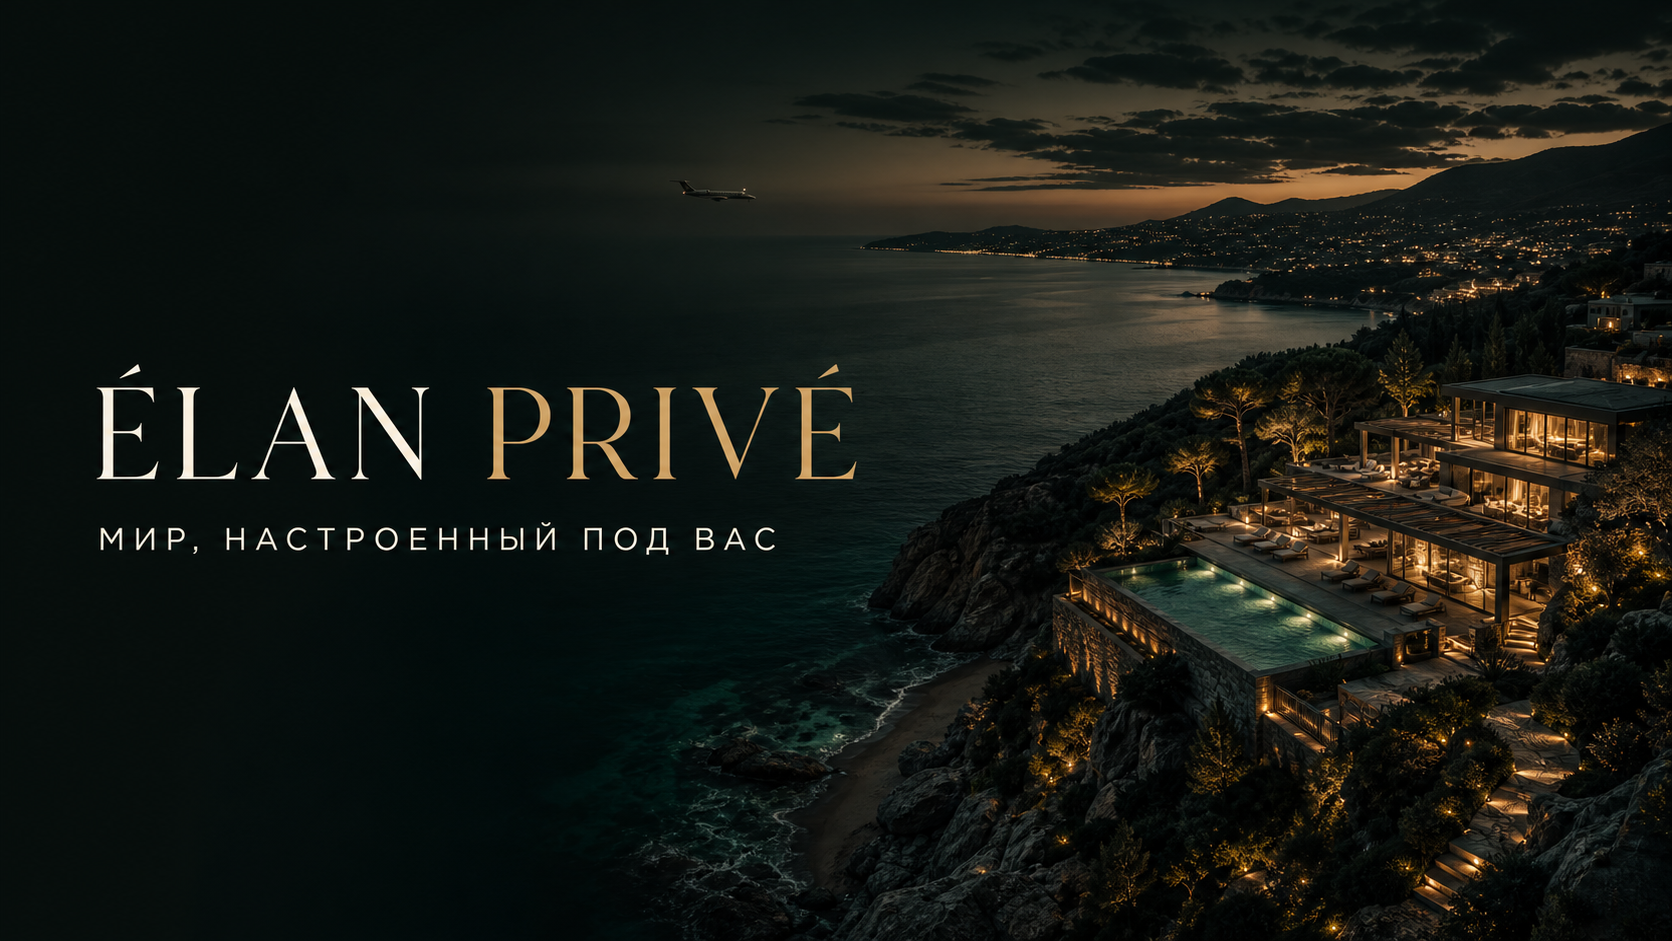
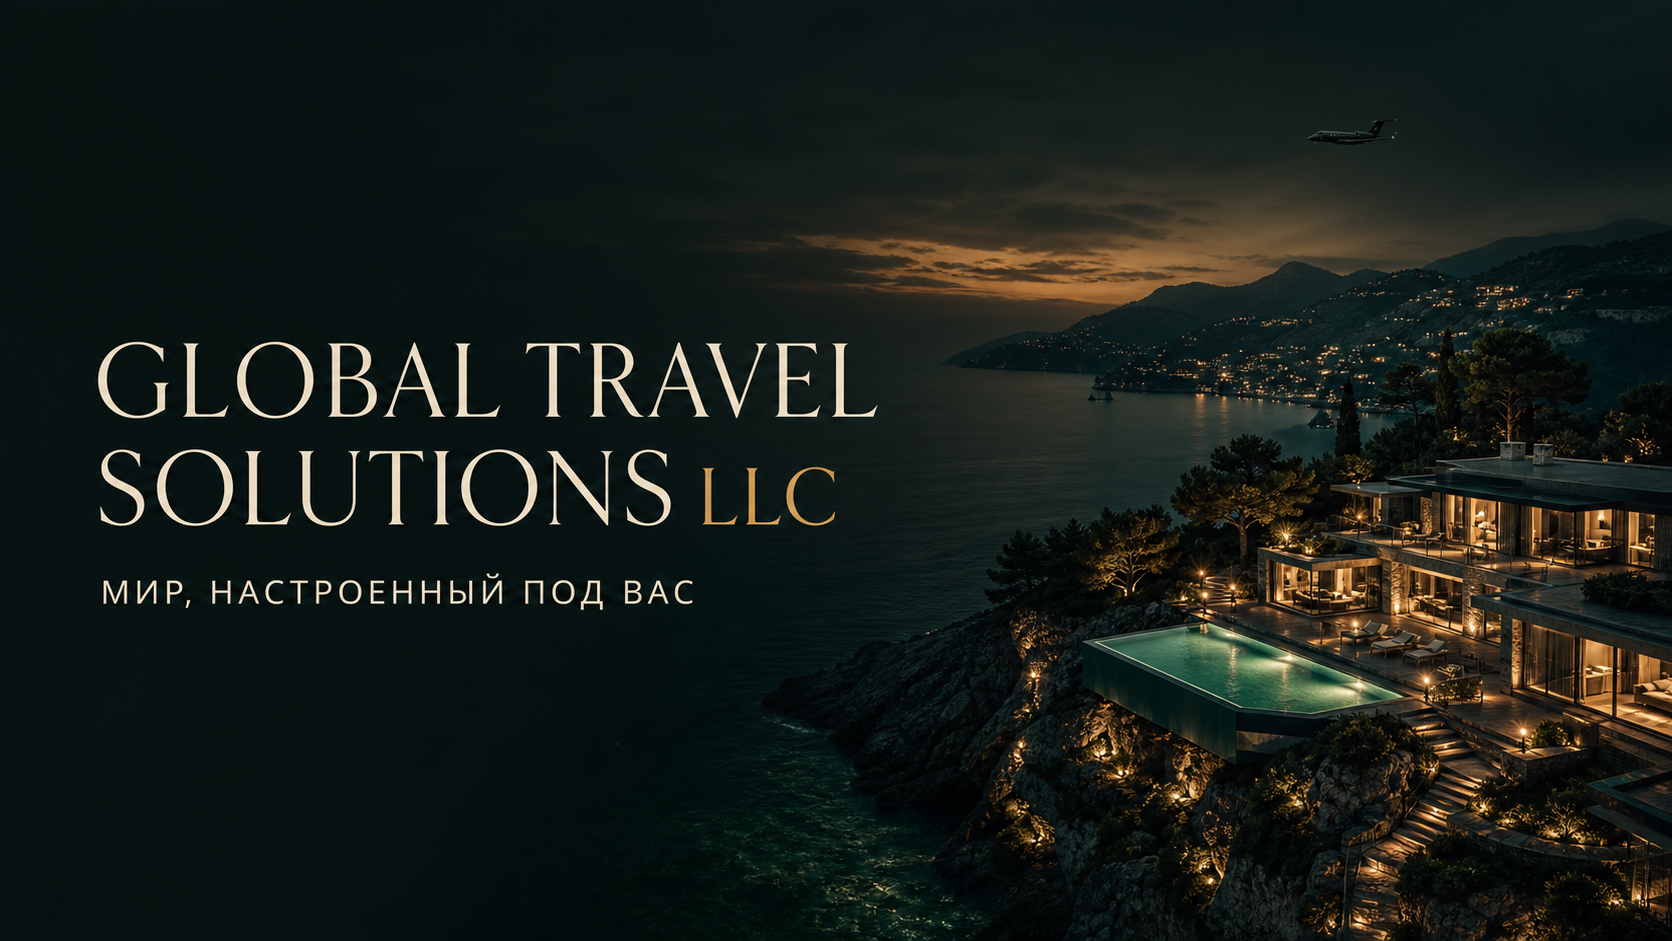
Rename brand and fix responsive service layout

Changed region(s): [[0.3732, 0.0308, 1.0, 1.0], [0.0622, 0.339, 0.5287, 0.5855], [0.0622, 0.6164, 0.4354, 0.6472]]

diff --git a/app/page.tsx b/app/page.tsx
@@ -60,10 +60,14 @@ export default function Home() {
         <div className="hero-noise" aria-hidden="true" />
 
         <header className="nav shell">
-          <a className="brand" href="#top" aria-label="Élan Privé — на главную">
-            <span className="brand-mark">E</span>
+          <a
+            className="brand"
+            href="#top"
+            aria-label="Global Travel Solutions LLC — на главную"
+          >
+            <span className="brand-mark">G</span>
             <span>
-              ÉLAN <i>PRIVÉ</i>
+              GLOBAL TRAVEL SOLUTIONS <i>LLC</i>
             </span>
           </a>
 
@@ -127,9 +131,10 @@ export default function Home() {
             </p>
             <div className="intro-details">
               <p>
-                Élan Privé объединяет локальную экспертизу и международную сеть
-                партнёров. Мы берём на себя весь путь: понимаем задачу,
-                предлагаем точные варианты и остаёмся рядом до последней детали.
+                Global Travel Solutions LLC объединяет локальную экспертизу и
+                международную сеть партнёров. Мы берём на себя весь путь:
+                понимаем задачу, предлагаем точные варианты и остаёмся рядом до
+                последней детали.
               </p>
               <div className="fact">
                 <strong>24 / 7</strong>
@@ -270,8 +275,11 @@ export default function Home() {
           </h2>
 
           <div className="contact-actions">
-            <a className="email-link" href="mailto:hello@elan-prive.com">
-              hello@elan-prive.com <span>↗</span>
+            <a
+              className="email-link"
+              href="mailto:hello@globaltravelsolutions.com"
+            >
+              hello@globaltravelsolutions.com <span>↗</span>
             </a>
             <div className="messengers">
               <a
@@ -282,7 +290,7 @@ export default function Home() {
                 WhatsApp ↗
               </a>
               <a
-                href="https://t.me/elanprive"
+                href="https://t.me/globaltravelsolutions"
                 target="_blank"
                 rel="noreferrer"
               >
@@ -293,12 +301,15 @@ export default function Home() {
 
           <footer>
             <a className="brand footer-brand" href="#top">
-              <span className="brand-mark">E</span>
+              <span className="brand-mark">G</span>
               <span>
-                ÉLAN <i>PRIVÉ</i>
+                GLOBAL TRAVEL SOLUTIONS <i>LLC</i>
               </span>
             </a>
-            <p>© 2026 Élan Privé. Worldwide lifestyle management.</p>
+            <p>
+              © 2026 Global Travel Solutions LLC. Worldwide lifestyle
+              management.
+            </p>
             <a href="#top">Наверх ↑</a>
           </footer>
         </div>

diff --git a/app/globals.css b/app/globals.css
@@ -81,9 +81,11 @@ a {
   align-items: center;
   gap: 14px;
   width: max-content;
-  font-size: 15px;
-  letter-spacing: 0.22em;
+  max-width: 100%;
+  font-size: 12px;
+  letter-spacing: 0.14em;
   font-weight: 600;
+  white-space: nowrap;
 }
 
 .brand i {
@@ -423,24 +425,29 @@ a {
   align-items: end;
   margin-top: 46px;
   padding-left: min(20vw, 285px);
+  min-width: 0;
 }
 
 .service-bottom > div {
-  display: flex;
-  gap: 60px;
+  display: grid;
+  grid-template-columns: minmax(360px, 440px) minmax(280px, 440px);
+  justify-content: space-between;
+  gap: clamp(32px, 4vw, 60px);
   align-items: end;
+  min-width: 0;
 }
 
 .service-bottom h3 {
-  width: 320px;
+  min-width: 0;
   margin: 0;
   font-family: var(--font-display), serif;
-  font-size: clamp(46px, 4.6vw, 70px);
+  font-size: clamp(44px, 4.4vw, 70px);
   font-weight: 400;
-  line-height: 0.9;
+  line-height: 0.92;
 }
 
 .service-bottom p {
+  min-width: 0;
   max-width: 440px;
   margin: 0;
   color: rgba(240, 234, 223, 0.6);
@@ -795,15 +802,39 @@ footer > a:last-child {
   }
 
   .service-bottom {
-    padding-left: 190px;
+    padding-left: 150px;
   }
 
   .service-bottom > div {
-    gap: 30px;
+    grid-template-columns: minmax(0, 1.1fr) minmax(220px, 0.9fr);
+    gap: 28px;
   }
 
   .service-bottom h3 {
-    width: 230px;
+    font-size: clamp(42px, 4.1vw, 58px);
+  }
+}
+
+@media (max-width: 900px) {
+  .service-card {
+    min-height: 280px;
+  }
+
+  .service-bottom {
+    padding-left: 90px;
+  }
+
+  .service-bottom > div {
+    grid-template-columns: 1fr;
+    gap: 18px;
+  }
+
+  .service-bottom h3 {
+    font-size: 50px;
+  }
+
+  .service-bottom p {
+    max-width: 520px;
   }
 }
 
@@ -818,7 +849,8 @@ footer > a:last-child {
 
   .brand {
     gap: 10px;
-    font-size: 12px;
+    font-size: 9px;
+    letter-spacing: 0.08em;
   }
 
   .brand-mark {
@@ -849,8 +881,8 @@ footer > a:last-child {
 
   .hero h1 {
     margin-top: 54px;
-    font-size: clamp(68px, 24vw, 100px);
-    line-height: 0.76;
+    font-size: clamp(56px, 20vw, 82px);
+    line-height: 0.8;
   }
 
   .hero h1 em {
@@ -891,7 +923,7 @@ footer > a:last-child {
 
   .intro-copy .lead {
     margin: 0 0 60px;
-    font-size: 48px;
+    font-size: clamp(40px, 12.5vw, 48px);
   }
 
   .intro-details {
@@ -910,7 +942,7 @@ footer > a:last-child {
   }
 
   .services-heading h2 {
-    font-size: 56px;
+    font-size: clamp(44px, 13vw, 56px);
   }
 
   .services-heading > p {
@@ -945,7 +977,7 @@ footer > a:last-child {
 
   .service-bottom h3 {
     width: auto;
-    font-size: 48px;
+    font-size: clamp(40px, 13vw, 48px);
   }
 
   .service-bottom p {
@@ -996,7 +1028,7 @@ footer > a:last-child {
   }
 
   .world-grid h2 {
-    font-size: 56px;
+    font-size: clamp(44px, 13vw, 56px);
   }
 
   .city-ticker {

diff --git a/app/layout.tsx b/app/layout.tsx
@@ -12,7 +12,8 @@ export async function generateMetadata(): Promise<Metadata> {
     requestHeaders.get("x-forwarded-proto") ??
     (host.startsWith("localhost") ? "http" : "https");
   const baseUrl = new URL(`${protocol}://${host}`);
-  const title = "Élan Privé — персональный lifestyle-сервис";
+  const title =
+    "Global Travel Solutions LLC — персональный lifestyle-сервис";
   const description =
     "Отели, транспорт, образование, консьерж-сервис и мероприятия по всему миру.";
 
@@ -30,7 +31,7 @@ export async function generateMetadata(): Promise<Metadata> {
           url: new URL("/og.png", baseUrl),
           width: 1672,
           height: 941,
-          alt: "Élan Privé — мир, настроенный под вас",
+          alt: "Global Travel Solutions LLC — мир, настроенный под вас",
         },
       ],
     },

diff --git a/README.md b/README.md
@@ -1,4 +1,4 @@
-# Élan Privé
+# Global Travel Solutions LLC
 
 Адаптивный сайт-визитка персонального lifestyle-сервиса: отели, транспорт,
 образование, консьерж-услуги и организация мероприятий по всему миру.
@@ -35,8 +35,8 @@ npm --version
 1. Клонируйте репозиторий и перейдите в папку проекта:
 
    ```bash
-   git clone <URL-РЕПОЗИТОРИЯ>
-   cd travel-site
+   git clone git@github.com:vkovalevv/global-travel-solutions.git
+   cd global-travel-solutions
    ```
 
 2. Установите зависимости:
@@ -107,8 +107,8 @@ public/
 
 Перед рабочим запуском замените демонстрационные данные:
 
-- название `Élan Privé`, если будет использоваться другой бренд;
-- адрес `hello@elan-prive.com`;
+- название `Global Travel Solutions LLC`, если будет использоваться другой бренд;
+- адрес `hello@globaltravelsolutions.com`;
 - ссылки на WhatsApp и Telegram;
 - тексты и список направлений.
 
